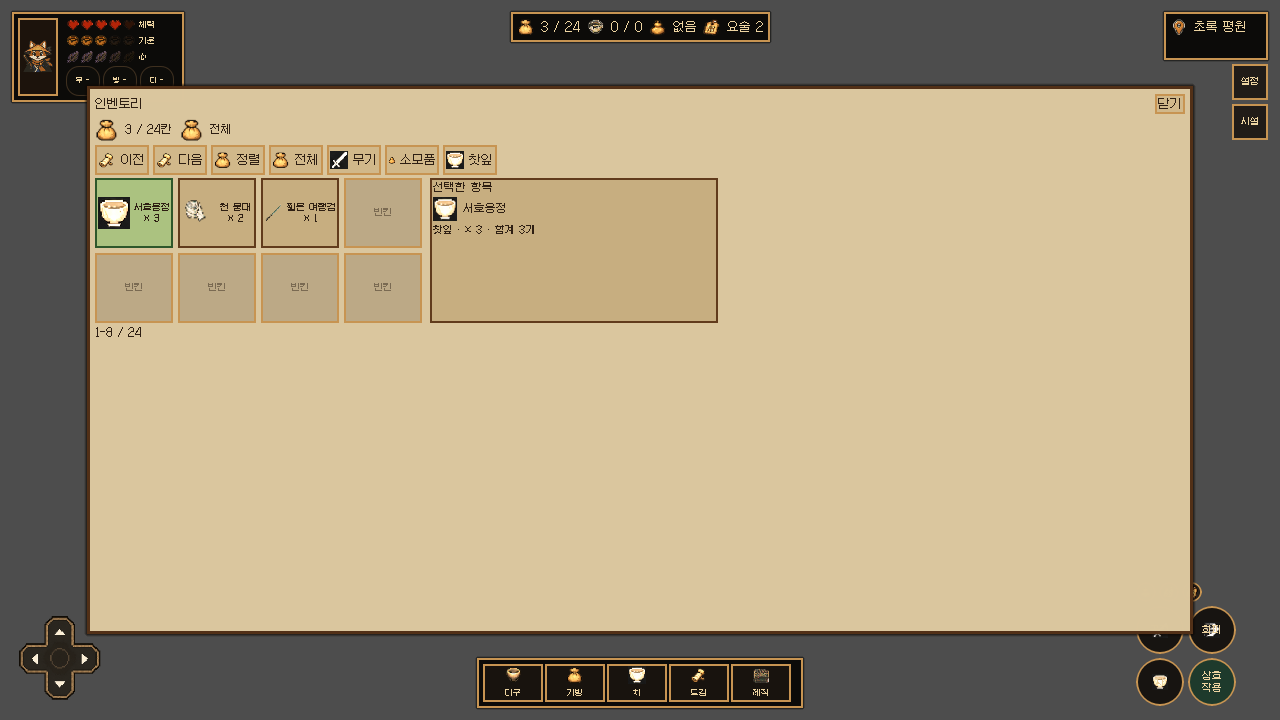
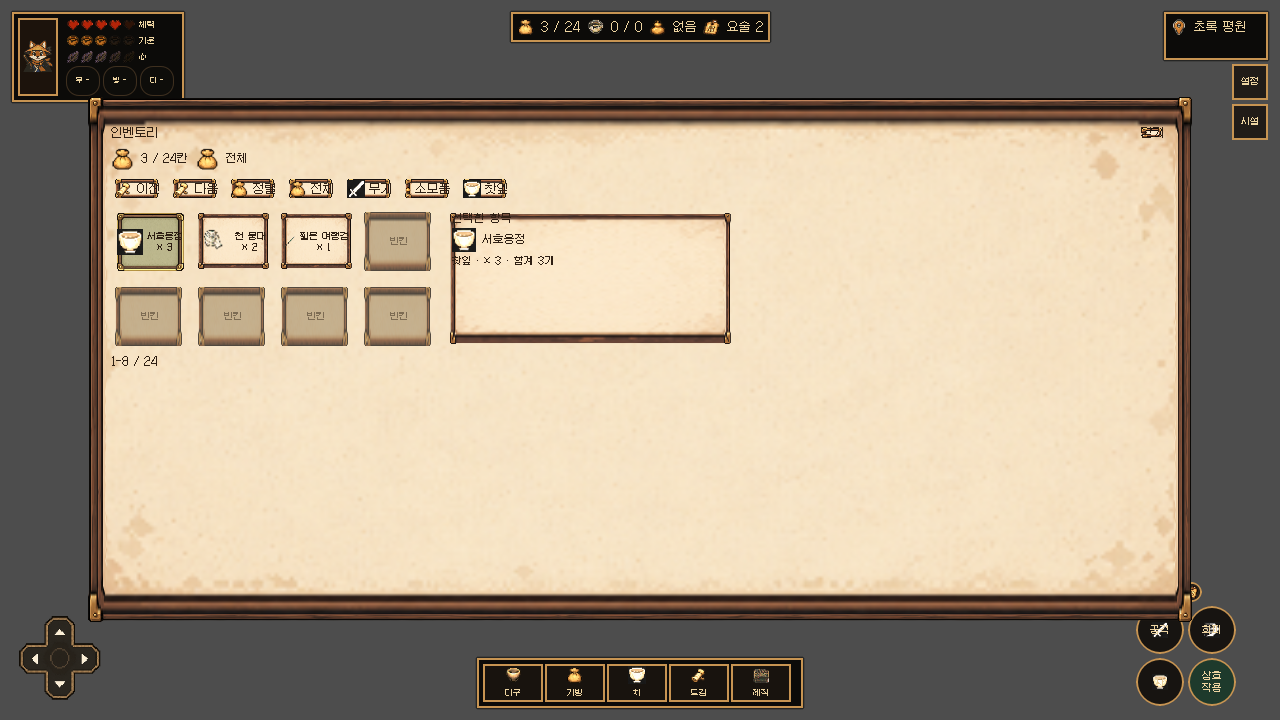
feat(ui): apply generated pixel art menu skin

diff --git a/DESIGN.md b/DESIGN.md
@@ -48,6 +48,7 @@
 - 색상과 이미지 제작 방향은 `assets/style/art-style-tokens.json`만 정본으로 사용한다.
 - 글꼴은 `Galmuri11`과 nearest filtering을 사용한다.
 - 상시 HUD는 짙은 먹색 바탕과 흙빛 테두리를 유지한다. 일시 메뉴는 한지 바탕, 먹색 글자, 목재색 테두리로 월드와 구분한다.
+- 일시 메뉴의 한지·목재 표면은 `assets/ui/generated/`의 생성 PNG를 9-slice로 직접 사용하며, 코드 색상 박스는 이미지 로드 실패 시 대체재로만 둔다.
 - 가방·도감·제작·지도·다구 화면은 긴 설명보다 큰 픽셀 아이콘, 카드, 짧은 상태 문구를 우선한다.
 - 상세 정보는 화면 전체를 다시 덮지 않고 같은 한지 스타일의 짧은 팝업으로 표시한다.
 - 시간 시계는 12개 분절 원호와 중앙 해·달 표식을 사용한다. 낮은 기운 황금 계열, 해질녘은 여우 적갈색 계열, 밤은 흐린 강물·밤 남색 계열로 구분한다.
@@ -55,7 +56,7 @@
 
 ## 컴포넌트
 
-- `PixelUiTheme`: 공통 글꼴, 버튼, 패널 스타일을 소유한다.
+- `PixelUiTheme`: 공통 글꼴과 `StyleBoxTexture` 기반 패널·버튼·카드 이미지를 소유한다.
 - `GameHud`: 런타임 read model을 관찰하고 HUD와 명령 표면을 렌더링한다.
 - 일시 메뉴 표면: 한지 패널과 카드형 선택지를 공유하되 메뉴별 read model과 command는 기존 경계를 유지한다.
 - 상세 팝업: 아이템·제작법·지도 표식의 설명과 행동을 한 화면 안에 짧게 표시한다.
